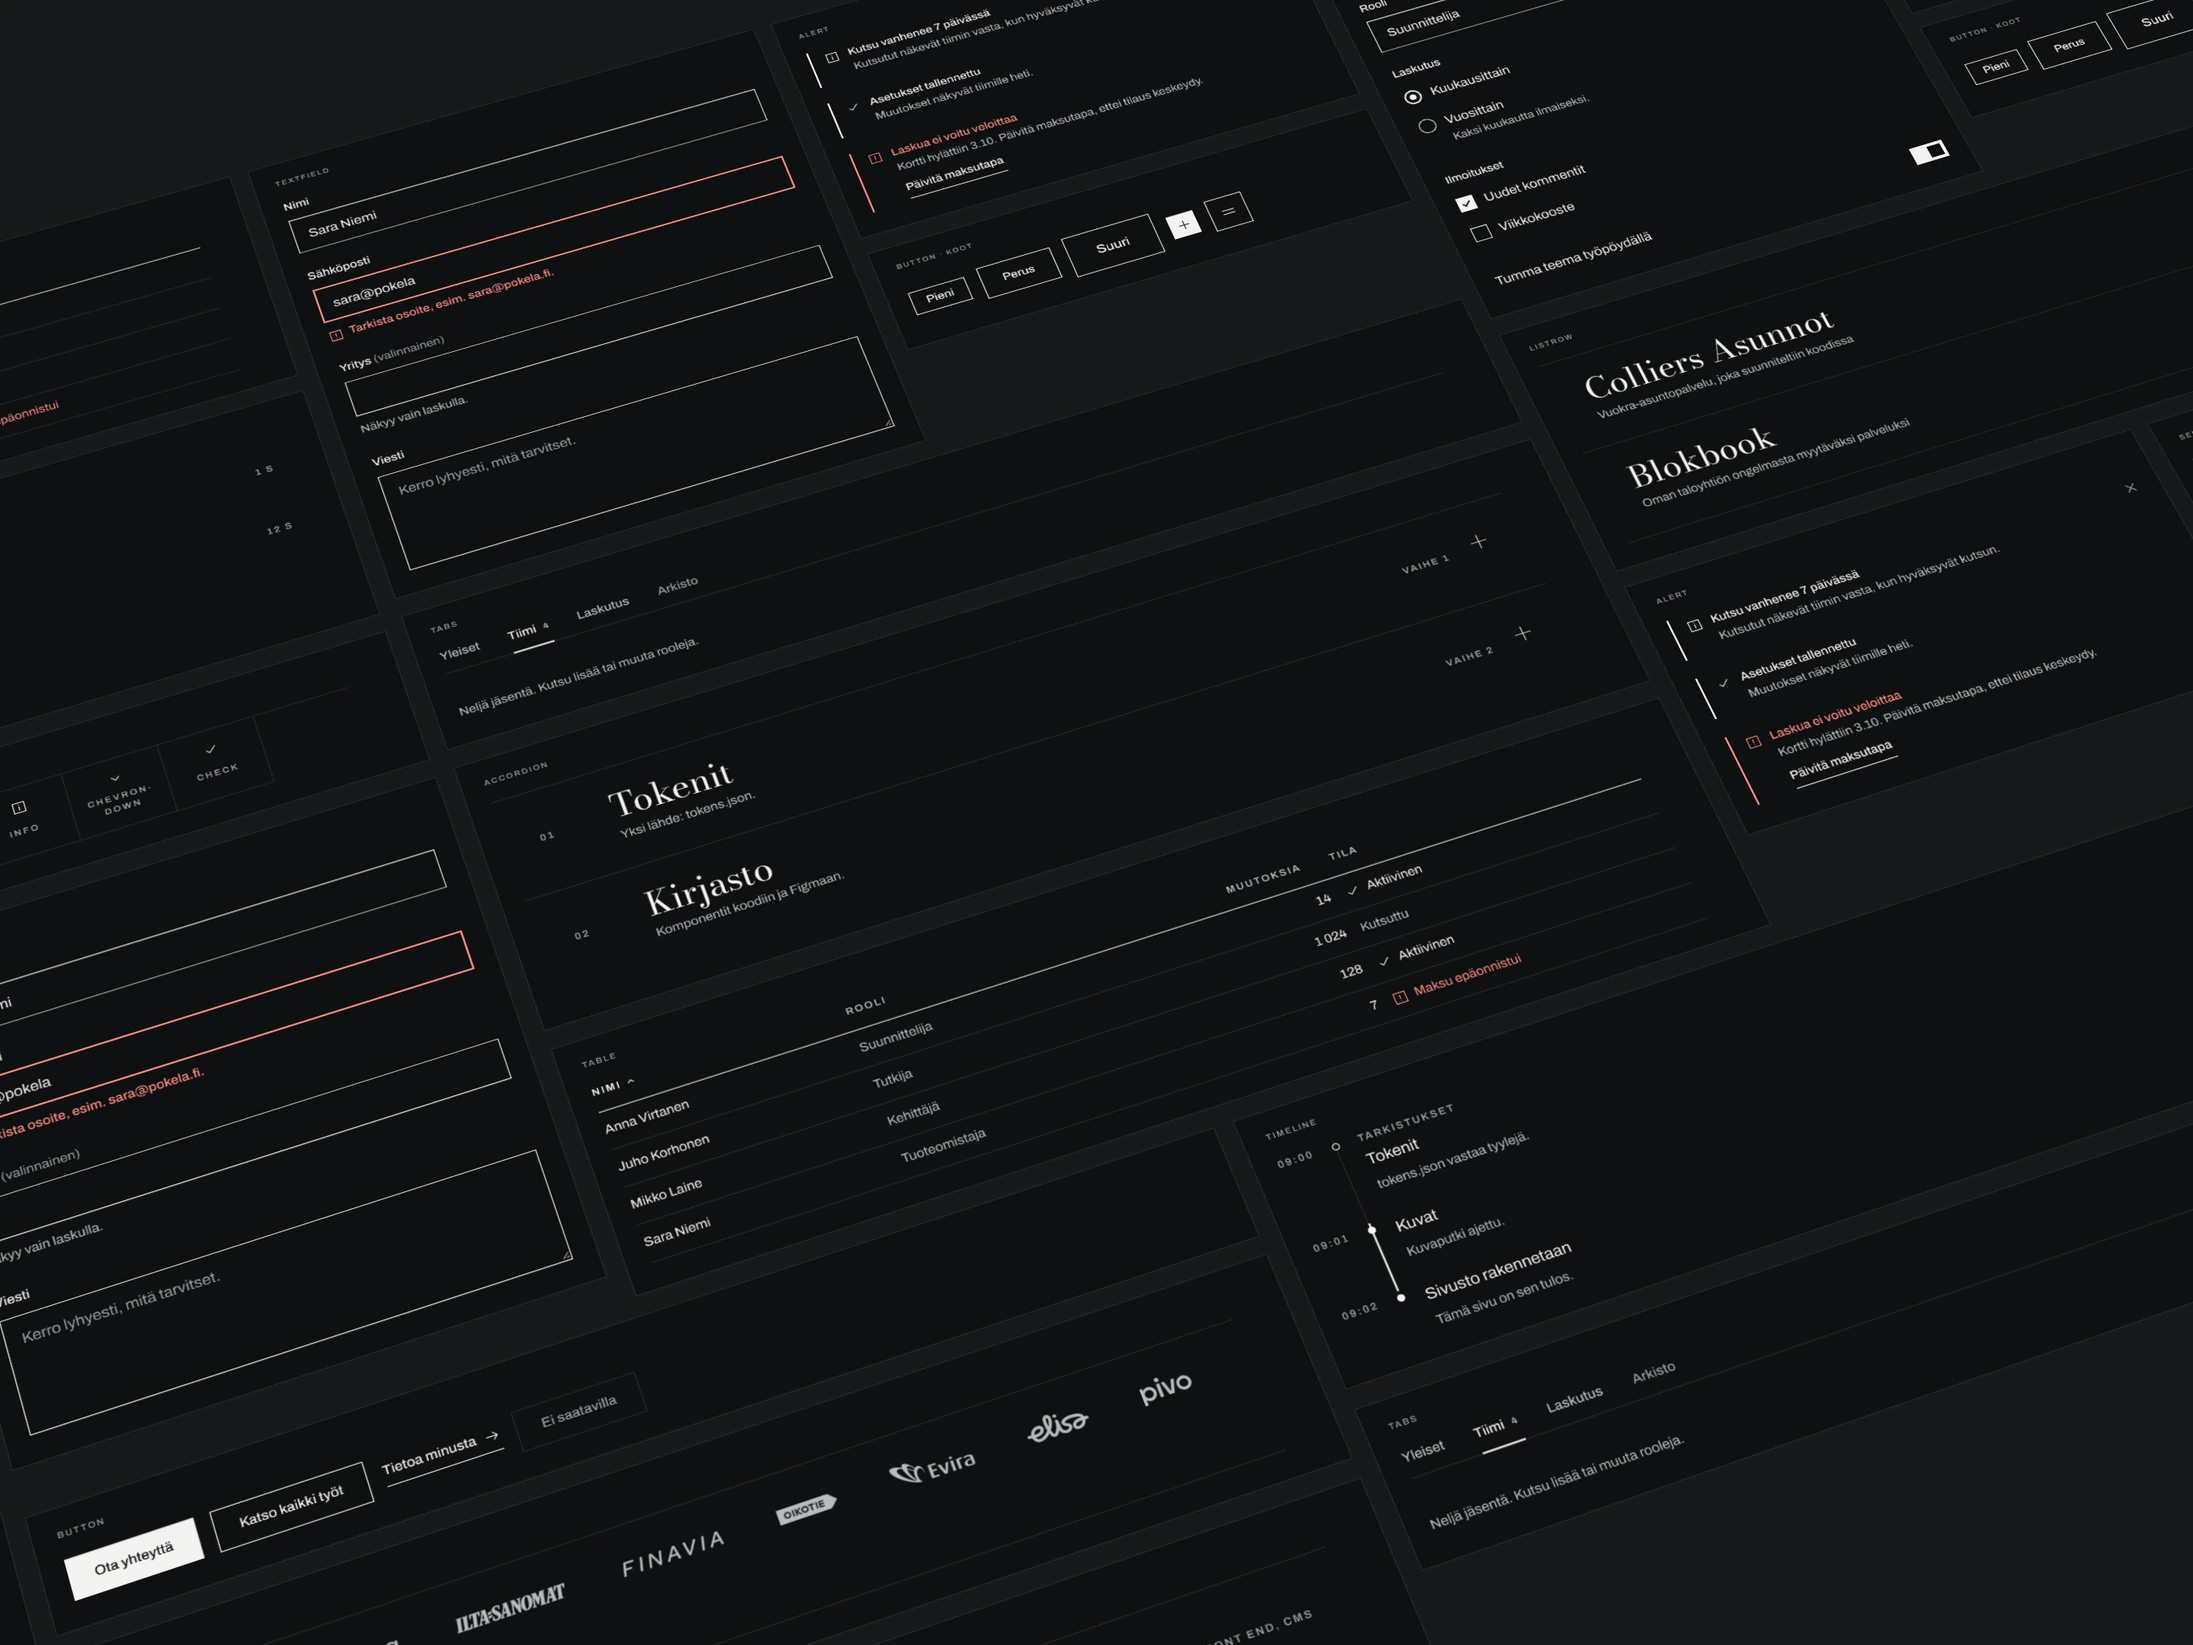
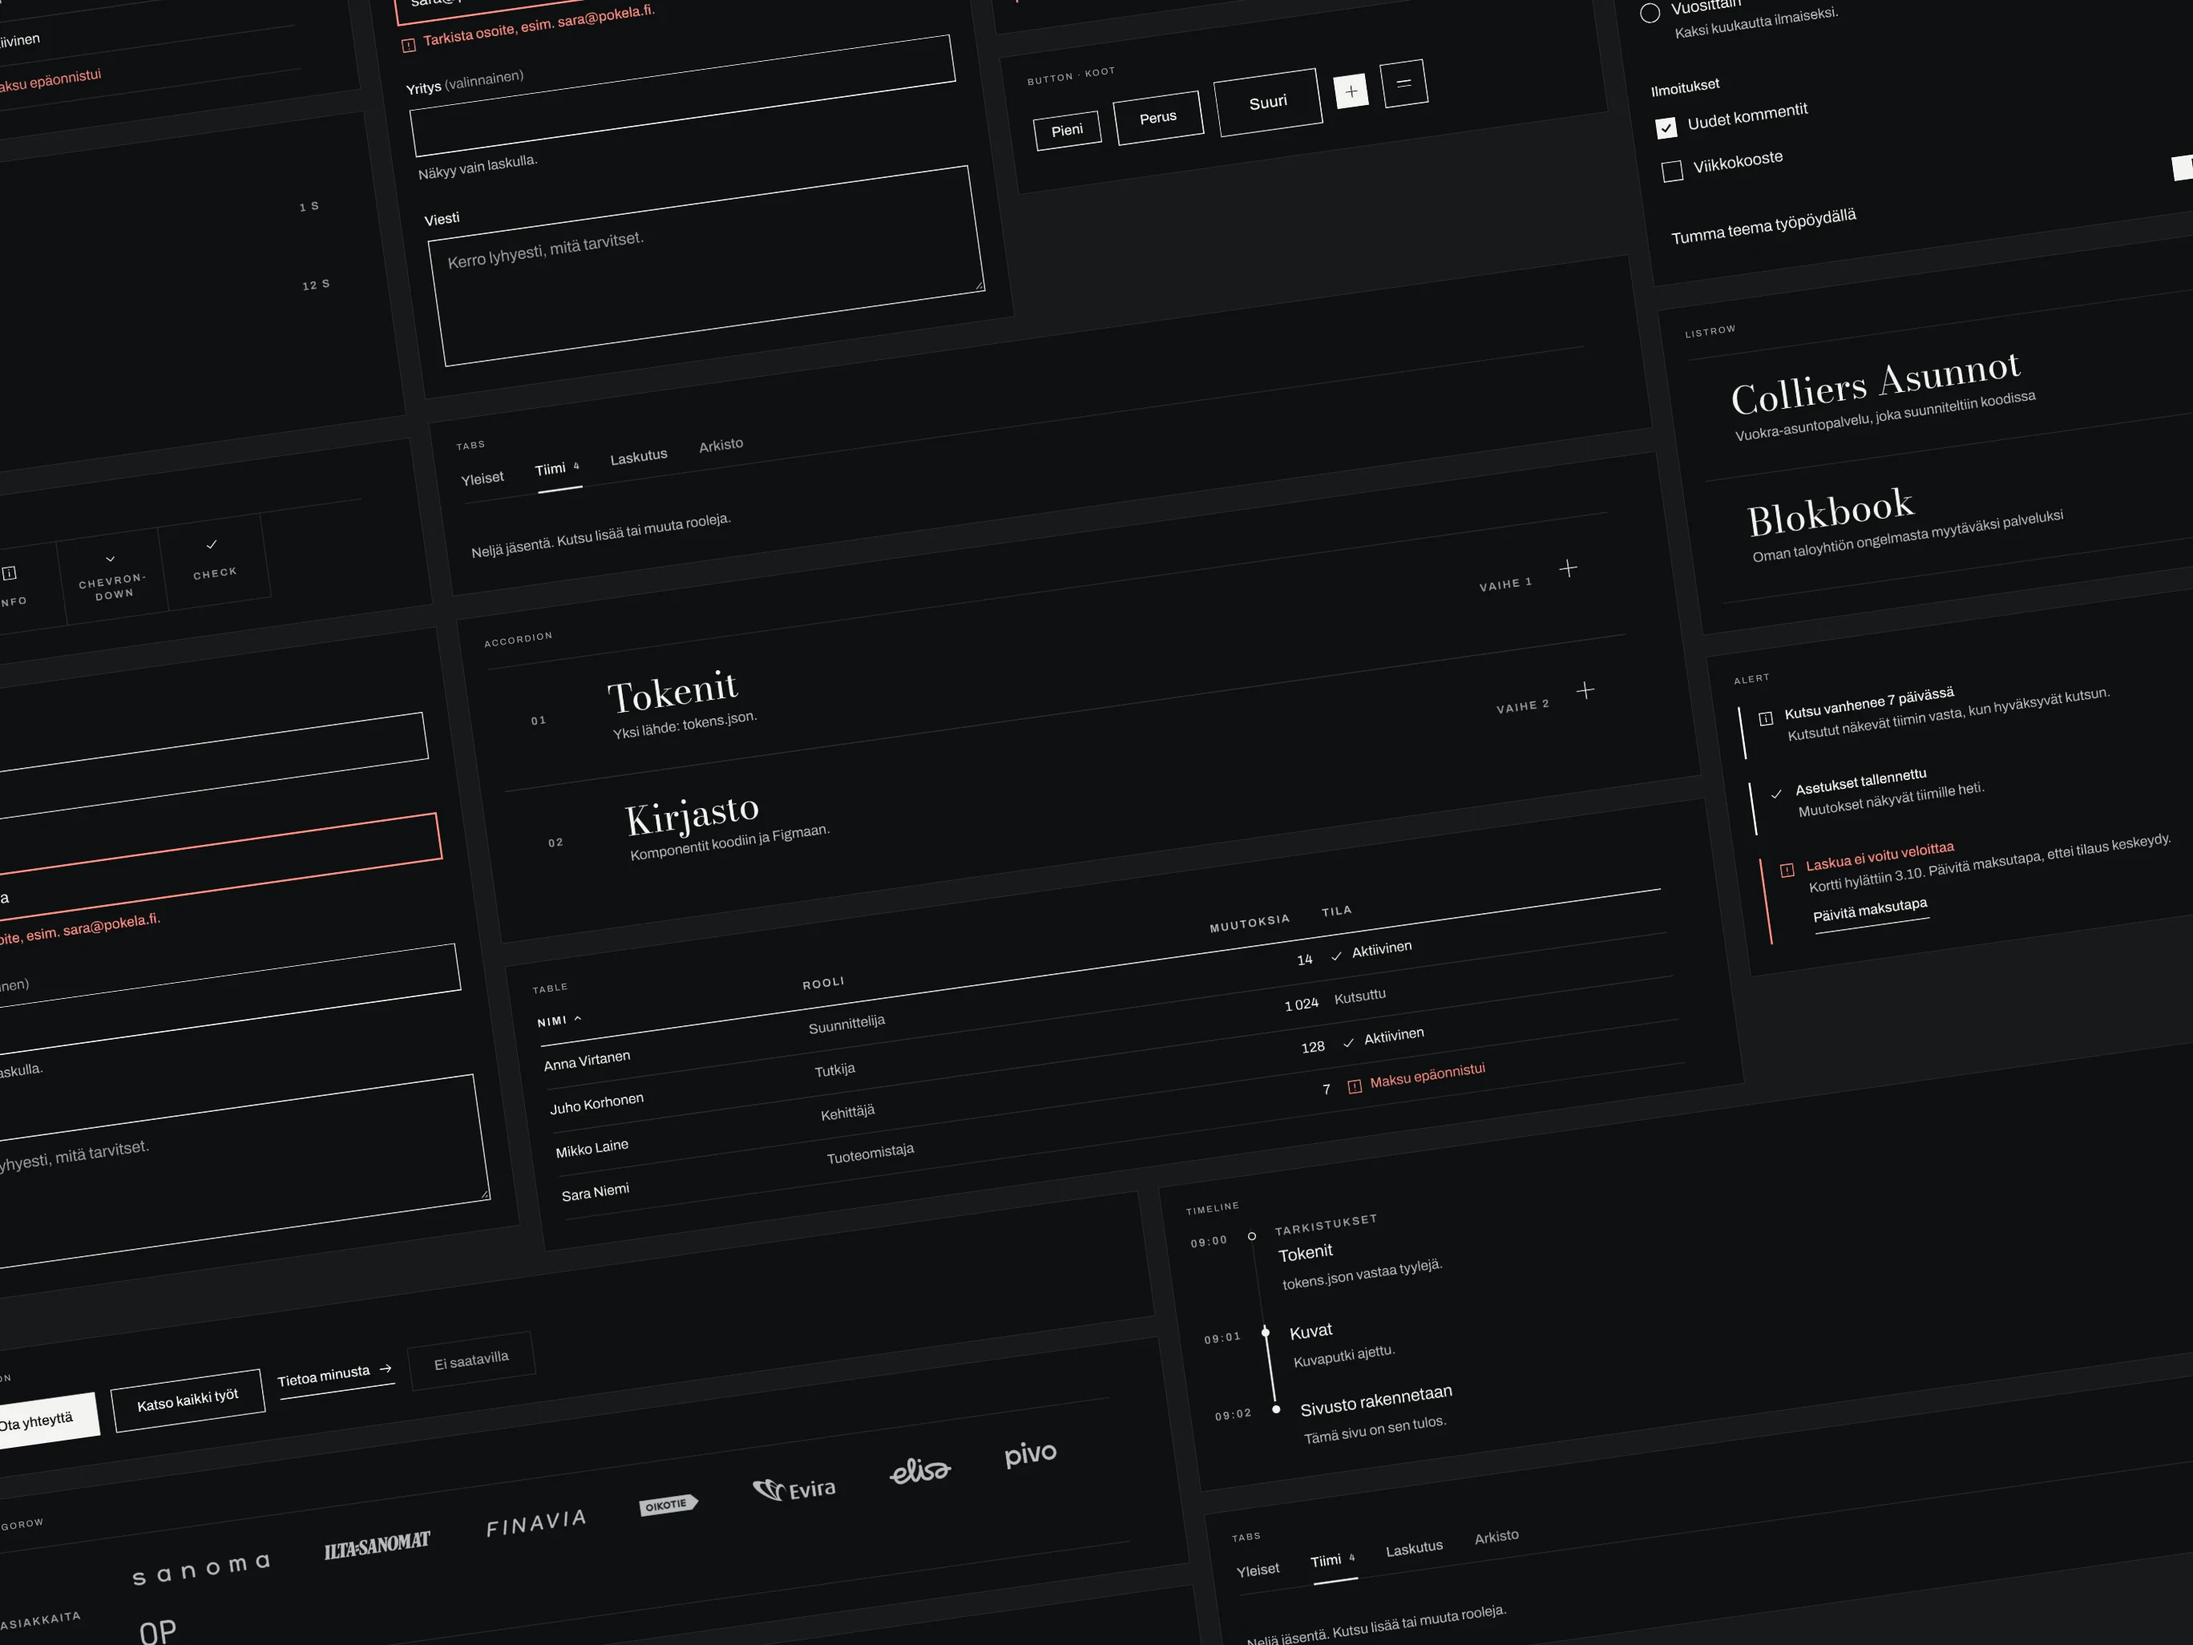
Työt-sivun nostokuva kallistettuun seinään ja copy Aiemmat työt
Nostokuvaksi vaihdetaan alkuperäisistä vaihtoehdoista keskimmäinen,
kallistettu komponenttiseinä, vaaleana ja tummana. Otsikko ja
alaotsikko Aiempi työ -> Aiemmat työt, myös Figman Työlista-pohjiin.
Versio 2.27.2.

Claude-Session: https://claude.ai/code/session_01VrWVQZfUf4nw4tKvX9BiaA

diff --git a/app/[locale]/tyot/page.tsx b/app/[locale]/tyot/page.tsx
@@ -53,7 +53,7 @@ export default async function WorkPage({ params }: { params: Promise<{ locale: s
         ))}
       </section>
 
-      {/* ---- aiempi työ ------------------------------------------ */}
+      {/* ---- aiemmat työt ------------------------------------------ */}
       <section className="section" aria-labelledby="previous">
         <div className="page section-head">
           <h2 id="previous" className="meta">

diff --git a/components/ListRowShowcase.tsx b/components/ListRowShowcase.tsx
@@ -102,7 +102,7 @@ export default async function ListRowShowcase({ locale }: { locale: Locale }) {
                   },
                   {
                     label: 'Käytössä',
-                    value: 'Etusivu · työlistaus · aiempi työ · tämä näkymä',
+                    value: 'Etusivu · työlistaus · aiemmat työt · tämä näkymä',
                   },
                 ]}
               />

diff --git a/content/kuvat.ts b/content/kuvat.ts
@@ -62,7 +62,7 @@ export const erilliset: Kuvapaikka[] = [
     missa: 'Etusivu',
   },
   {
-    /* Design systemin komponentit seinänä perspektiivissä: kuva on
+    /* Design systemin komponentit seinänä kallistettuna: kuva on
        rakennettu System-sivun oikeista komponenteista. Tausta ja
        komponentit ovat teeman värisiä, joten tummaan teemaan on oma
        kuvansa. */

diff --git a/components/PreviousWork.tsx b/components/PreviousWork.tsx
@@ -24,7 +24,7 @@ function sarakkeet(media: PreviousMedia[]) {
 }
 
 /**
- * Aiempi työ. Rivit avautuvat paikallaan — vanhat projektit eivät saa
+ * Aiemmat työt. Rivit avautuvat paikallaan — vanhat projektit eivät saa
  * omia sivuja, jotta kaksi kärkicasea pitävät huomion.
  *
  * Vastuut on eroteltu: vastuullani vs. osallistuin. Yksi lista olisi

diff --git a/components/PreviousWork.stories.tsx b/components/PreviousWork.stories.tsx
@@ -4,7 +4,7 @@ import fi from '@/content/dictionaries/fi';
 import work from '@/content/work/fi';
 
 /**
- * Aiempi työ. Vanhat projektit eivät saa omia sivuja — ne avautuvat
+ * Aiemmat työt. Vanhat projektit eivät saa omia sivuja — ne avautuvat
  * paikallaan, jotta kaksi kärkicasea pitävät huomion.
  */
 const meta = {

diff --git a/content/dictionaries/fi.ts b/content/dictionaries/fi.ts
@@ -51,8 +51,8 @@ const fi = {
 
   work: {
     title: 'Työt',
-    subtitle: 'Neljä kärkeä · aiempi työ',
-    previous: 'Aiempi työ',
+    subtitle: 'Neljä kärkeä · aiemmat työt',
+    previous: 'Aiemmat työt',
     previousHint: 'Avautuu sivulla',
     nextCase: 'Seuraava case',
     open: 'Avaa',

diff --git a/README.md b/README.md
@@ -85,7 +85,7 @@ Uusi tarkistus lisätään vasta kun oikea virhe on päässyt läpi
 ```
 /                    → /fi/ (Vercel-ohjaus)
 /fi/                 Etusivu
-/fi/tyot/            Työlistaus — 3 kärkeä + aiempi työ avautuvana
+/fi/tyot/            Työlistaus — 3 kärkeä + aiemmat työt avautuvana
 /fi/tyot/colliers        Case 01
 /fi/tyot/blokbook        Case 02
 /fi/tyot/portfolio       Case 03
